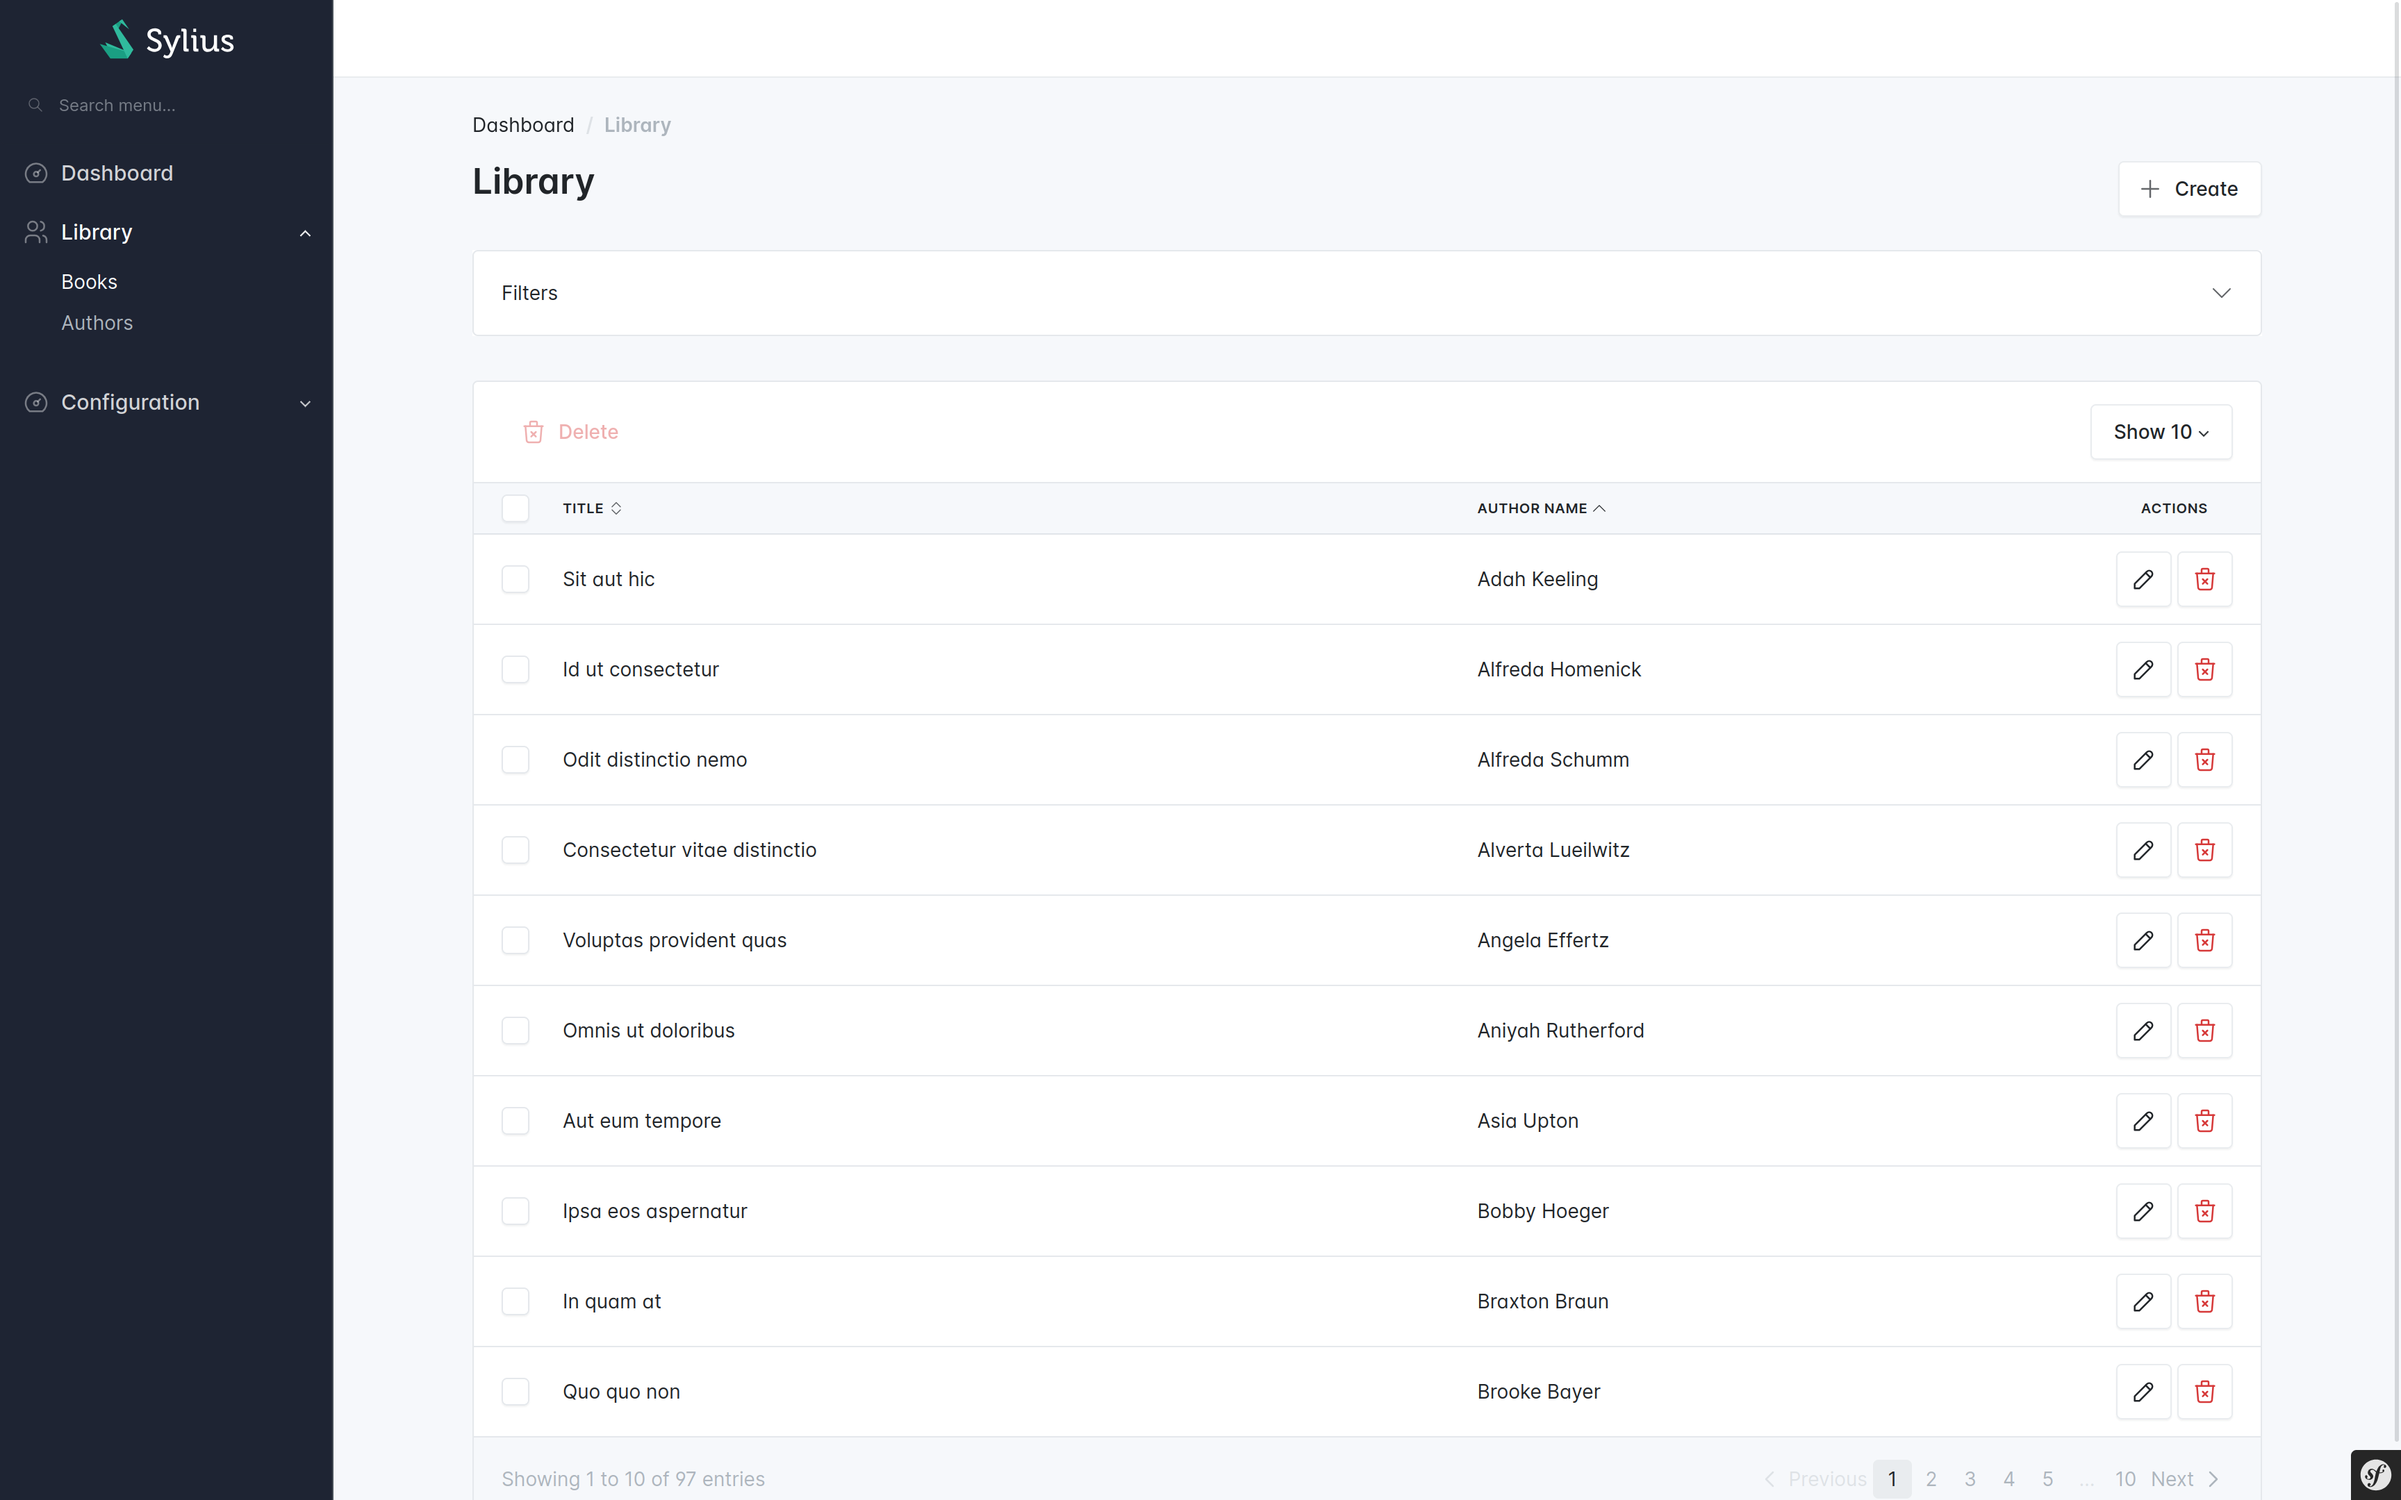
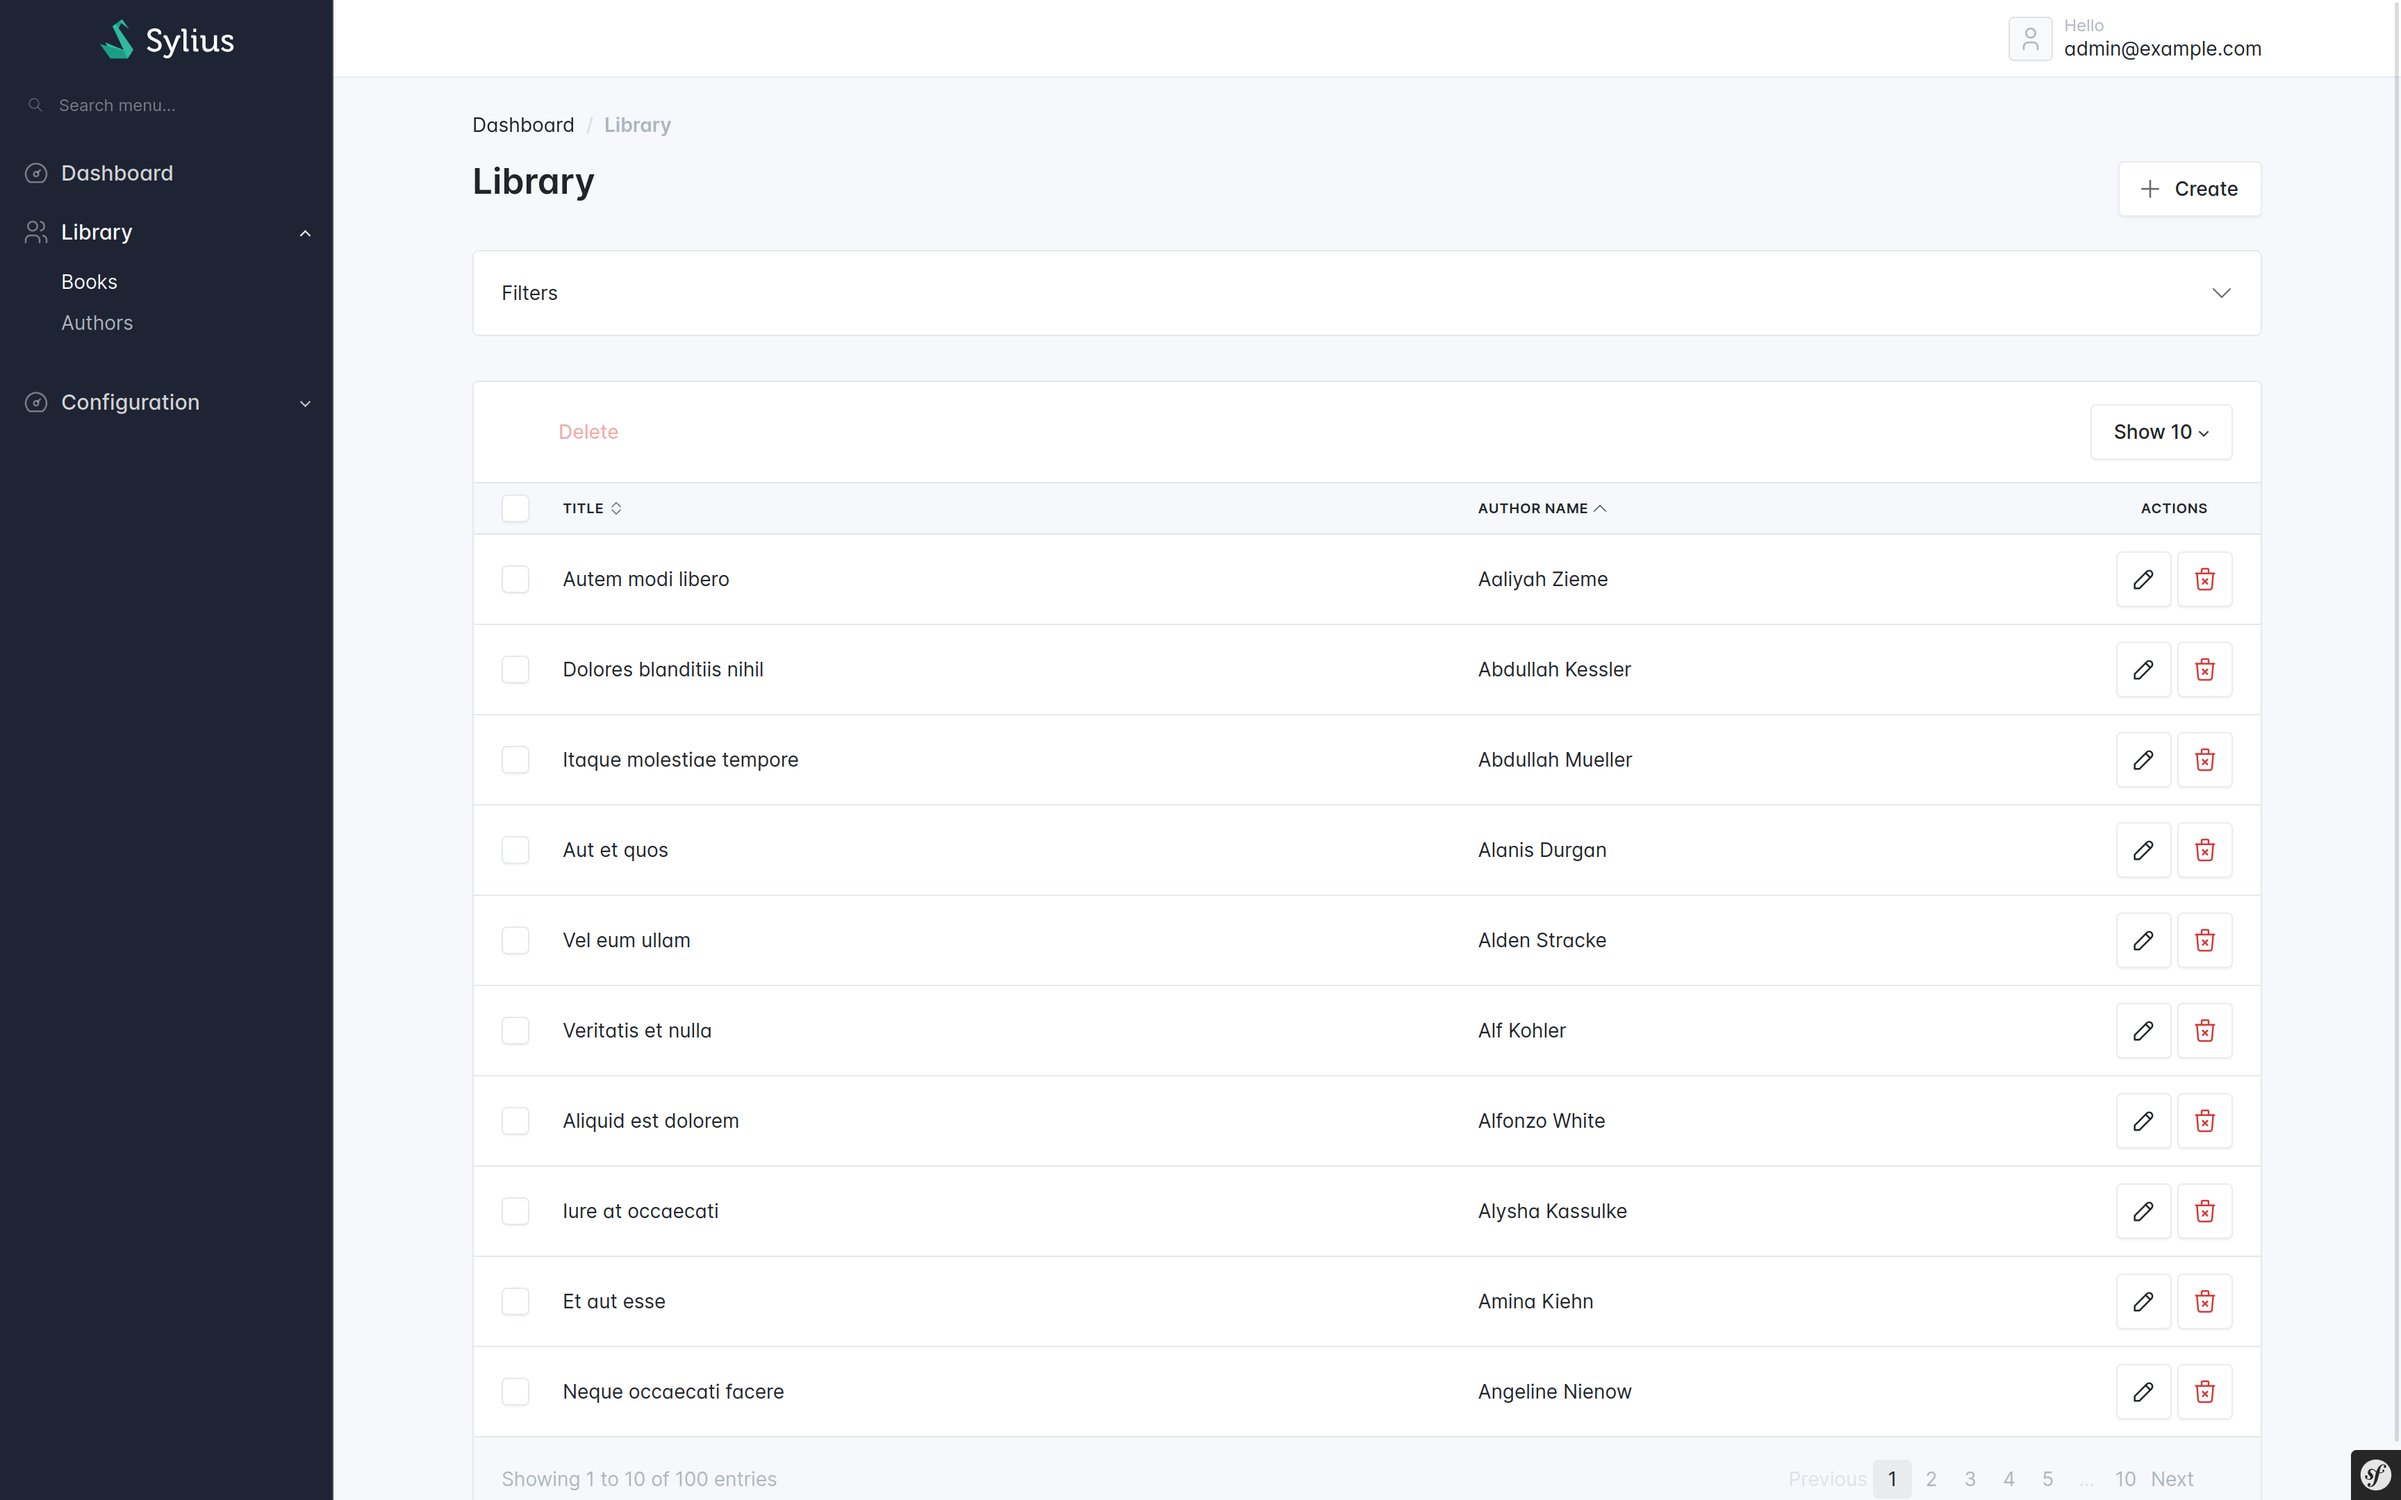
Improve screenshots with new header

diff --git a/pages/03_history.md b/pages/03_history.md
@@ -250,4 +250,4 @@ layout: quote
 
 Kamil Kokot wrote
 
-This PR aims to __replace our current template events__ system using __Sonata Block bundle__ and improve both the __developer experience__ using it and __Sylius extendability__, especially in the light of __Sylius Store__ which has been recently opened.
+This PR aims to __replace our current template events system using Sonata Block bundle__ and improve both the __developer experience__ using it and __Sylius extendability__, especially in the light of __Sylius Store__ which has been recently opened.
